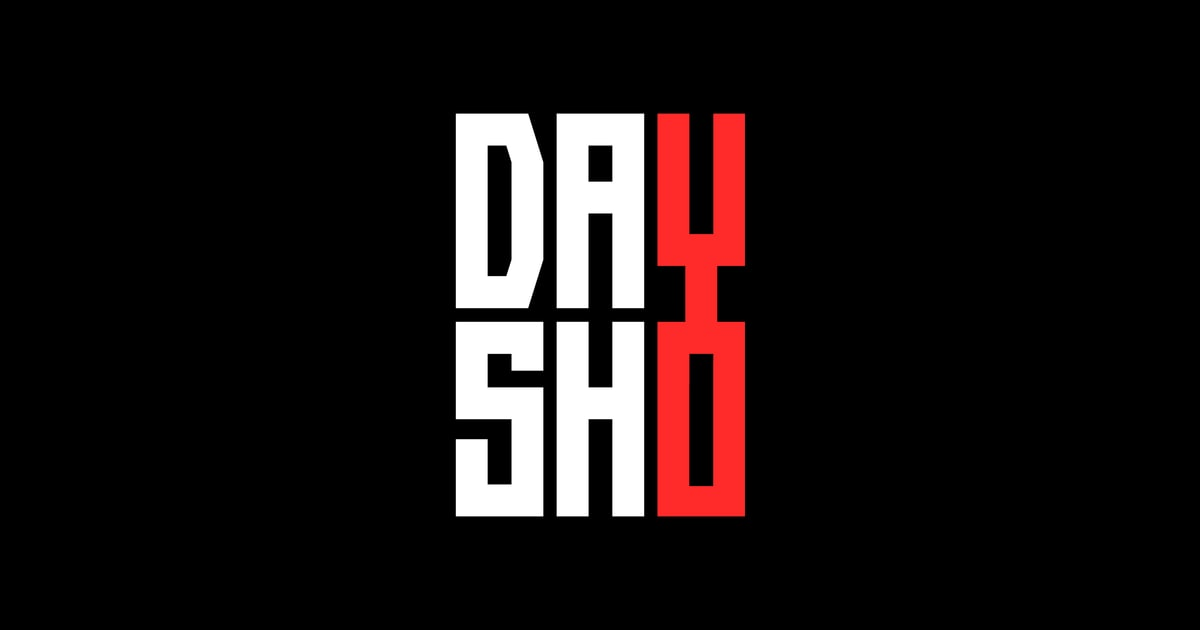
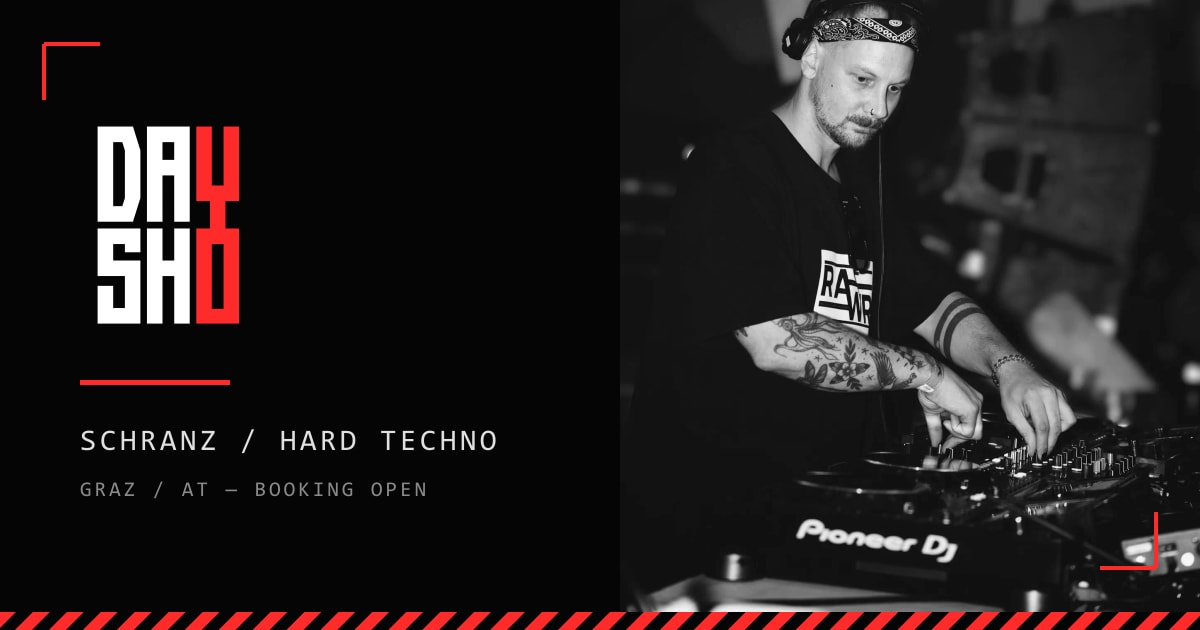
fix(scripts): make-og.js to ESM, rebuild the OG card with portrait and genre
make-og.js used require() in a package with "type": "module", so every run
threw ReferenceError and the OG image could not be regenerated at all. It
had been broken since the zero-JS rebuild. Converted to ESM with top-level
await, matching the two sibling scripts.

The card it produced was the wordmark centred on black: no photo, no genre,
no city. A link dropped into a promoter group showed a logo and nothing
else. The new card carries the four things that decide whether someone
opens it — face, name, genre, availability — in the site's own colour
regime: press_06 in grayscale on the right, dissolving into the ground with
the same mask the hero figure uses, wordmark and type on the left, corner
brackets and a warning-stripe band.

Uses public/assets/logo-day-sho.svg rather than assets/day-sho-wordmark.png:
the PNG has opaque corners (0,0,0,255) despite its alpha channel and showed
as a black rectangle against #050505.

Writes to both assets/ and public/assets/. prepare-assets.js used to do that
copy, but it needs the gitignored photo folders and cannot run from a bare
clone — the OG image should not depend on them.

Claude-Session: https://claude.ai/code/session_011Rt3WHvtRDLzuK6NUi17te

diff --git a/scripts/make-og.js b/scripts/make-og.js
@@ -1,16 +1,101 @@
-// Generates a branded 1200x630 Open-Graph image: DAY SHO wordmark centered on black.
-// Run: npm run make:og   (regenerate whenever the wordmark changes)
-const sharp = require("sharp");
+// Generates the 1200x630 Open-Graph card.
+// Run: npm run make:og   (regenerate whenever the wordmark or the press shot changes)
+//
+// Was CommonJS (`require`) in a package with "type": "module", so it threw
+// ReferenceError on every run and the OG image could not be rebuilt. ESM now.
+//
+// The old card was the wordmark centred on black: no photo, no genre, no city. A link
+// dropped into a promoter group showed a logo and nothing else. This one carries the
+// four things that decide whether someone opens it — face, name, genre, availability —
+// in the site's own colour regime.
+//
+// Writes to both the source folder and public/, because prepare-assets.js (which used
+// to do the copy) needs the gitignored photo folders and cannot run from a bare clone.
+import sharp from "sharp";
+import { copyFile } from "node:fs/promises";
 
-const W = 1200, H = 630;
-const SRC = "assets/day-sho-wordmark.png";
+const W = 1200;
+const H = 630;
+
+const BASE = "#050505";
+const SIGNAL = "#FF2A2A";
+const INK = "#E0E0E0";
+const DIM = "#8A8A8A";
+
+// The PNG wordmark carries an opaque black box (corner pixels are 0,0,0,255) that
+// shows as a rectangle against the #050505 ground. This SVG cut is the same mark with
+// the background rect already stripped by prepare-assets.js.
+const WORDMARK = "public/assets/logo-day-sho.svg";
+const PORTRAIT = "public/assets/press_06.webp";
 const OUT = "assets/og-image.jpg";
+const OUT_PUBLIC = "public/assets/og-image.jpg";
 
-(async () => {
-  const logo = await sharp(SRC).resize({ height: 470 }).png().toBuffer();
-  await sharp({ create: { width: W, height: H, channels: 3, background: { r: 0, g: 0, b: 0 } } })
-    .composite([{ input: logo, gravity: "center" }])
-    .jpeg({ quality: 88, mozjpeg: true })
-    .toFile(OUT);
-  console.log("OG image written ->", OUT);
-})().catch((e) => { console.error(e); process.exit(1); });
+// Photo occupies the right third and dissolves into the page on its left edge — the
+// same treatment as the hero figure, so the card reads as part of the site.
+const PHOTO_X = 620;
+const PHOTO_W = W - PHOTO_X;
+
+async function portrait() {
+  const img = sharp(PORTRAIT)
+    .resize(PHOTO_W, H, { fit: "cover", position: sharp.strategy.attention })
+    .grayscale()
+    .linear(1.12, -10)
+    .ensureAlpha();
+
+  const fade = Buffer.from(
+    `<svg xmlns="http://www.w3.org/2000/svg" width="${PHOTO_W}" height="${H}">
+       <defs>
+         <linearGradient id="f" x1="0" x2="1" y1="0" y2="0">
+           <stop offset="0" stop-color="#000"/>
+           <stop offset="0.45" stop-color="#fff"/>
+         </linearGradient>
+       </defs>
+       <rect width="${PHOTO_W}" height="${H}" fill="url(#f)"/>
+     </svg>`
+  );
+
+  return img
+    .composite([{ input: fade, blend: "dest-in" }])
+    .png()
+    .toBuffer();
+}
+
+// Stripes, corner brackets and type in one overlay so nothing can drift out of register.
+const overlay = Buffer.from(
+  `<svg xmlns="http://www.w3.org/2000/svg" width="${W}" height="${H}">
+     <defs>
+       <pattern id="warn" width="24" height="24" patternUnits="userSpaceOnUse"
+                patternTransform="rotate(45)">
+         <rect width="24" height="24" fill="${BASE}"/>
+         <rect width="12" height="24" fill="${SIGNAL}"/>
+       </pattern>
+     </defs>
+
+     <path d="M44 44 h56 M44 44 v56" stroke="${SIGNAL}" stroke-width="4" fill="none"/>
+     <path d="M1156 568 h-56 M1156 568 v-56" stroke="${SIGNAL}" stroke-width="4" fill="none"/>
+
+     <rect x="80" y="380" width="150" height="5" fill="${SIGNAL}"/>
+
+     <text x="80" y="450" fill="${INK}" font-size="30" letter-spacing="3.5"
+           font-family="Consolas, DejaVu Sans Mono, monospace">SCHRANZ / HARD TECHNO</text>
+     <text x="80" y="496" fill="${DIM}" font-size="21" letter-spacing="3"
+           font-family="Consolas, DejaVu Sans Mono, monospace">GRAZ / AT — BOOKING OPEN</text>
+
+     <rect x="0" y="612" width="${W}" height="18" fill="url(#warn)"/>
+   </svg>`
+);
+
+const mark = await sharp(WORDMARK).resize({ height: 230 }).png().toBuffer();
+
+await sharp({ create: { width: W, height: H, channels: 3, background: BASE } })
+  .composite([
+    { input: await portrait(), left: PHOTO_X, top: 0 },
+    { input: overlay, left: 0, top: 0 },
+    { input: mark, left: 80, top: 110 },
+  ])
+  .jpeg({ quality: 90, mozjpeg: true })
+  .toFile(OUT);
+
+await copyFile(OUT, OUT_PUBLIC);
+
+console.log("OG image written ->", OUT, "and", OUT_PUBLIC);
